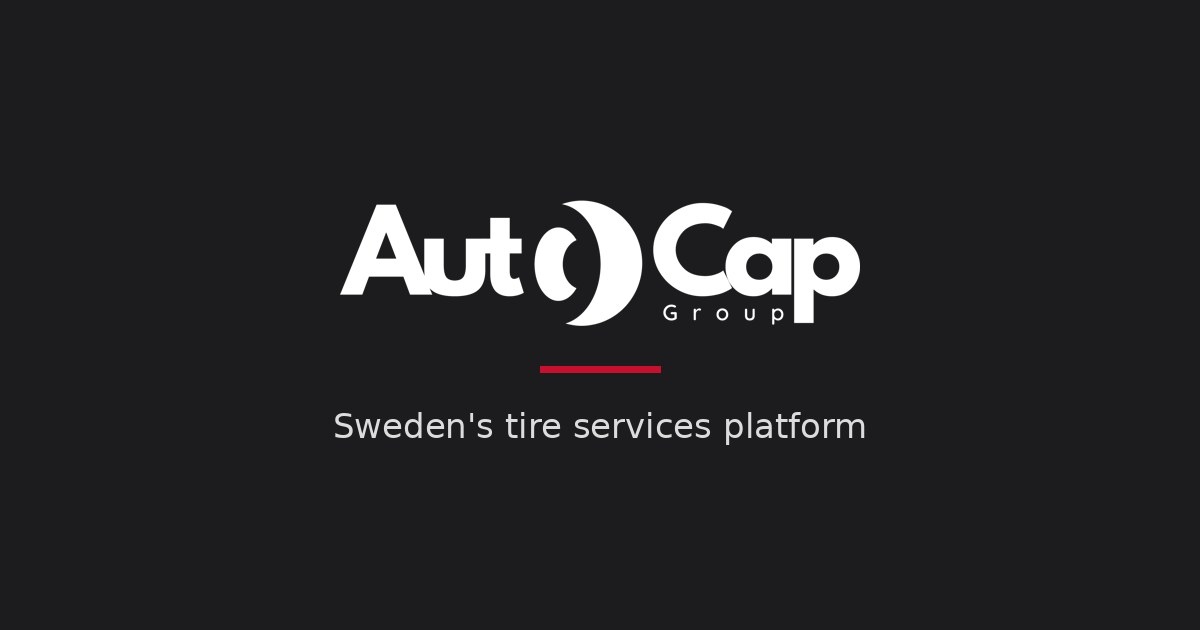
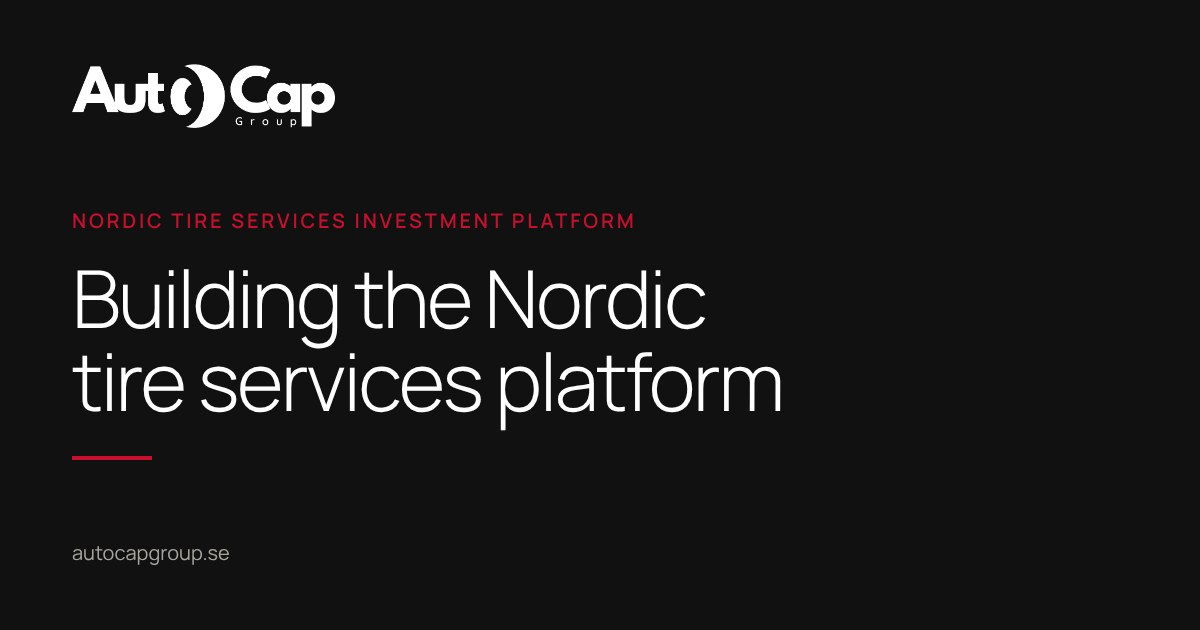
feat(seo): branded share images, workshop structured data, closed preview robots
Shared links showed a card saying "Sweden's tire services platform" in a
system font, two Swedish pages had English titles, and workshop pages gave
search engines nothing structured to read.

Claude-Session: https://claude.ai/code/session_01Xw5uD7G8tMdVQpiXwxNjq9

diff --git a/src/lib/seo/workshop-json-ld.test.ts b/src/lib/seo/workshop-json-ld.test.ts
@@ -1,0 +1,38 @@
+import type { Workshop } from '@/lib/cms/workshop/types';
+import { workshopJsonLd } from './workshop-json-ld';
+
+const workshop: Workshop = {
+  id: 1,
+  name: 'Däckgruppen Bromma',
+  slug: 'dackgruppen-bromma',
+  city: 'Bromma',
+  region: 'Stockholm',
+  latitude: 59.34,
+  longitude: 17.94,
+  status: 'acquired',
+  yearAcquired: 2026,
+  localWebsite: 'https://dackgruppen.se',
+  description: 'Tire service in Bromma.',
+};
+
+describe('workshopJsonLd', () => {
+  const url = 'https://autocapgroup.se/portfolio/dackgruppen-bromma';
+
+  it('describes the workshop as a tire shop owned by the group', () => {
+    const data = workshopJsonLd(workshop, url);
+    expect(data['@type']).toBe('TireShop');
+    expect(data.name).toBe('Däckgruppen Bromma');
+    expect(data.url).toBe('https://dackgruppen.se');
+    expect(data.parentOrganization).toEqual({ '@id': 'https://autocapgroup.se/#organization' });
+    expect(data.geo).toEqual({ '@type': 'GeoCoordinates', latitude: 59.34, longitude: 17.94 });
+  });
+
+  it('leaves out facts the CMS does not hold', () => {
+    const data = workshopJsonLd({ ...workshop, localWebsite: '', latitude: NaN }, url);
+    expect(data.url).toBe(url);
+    expect(data).not.toHaveProperty('geo');
+    expect(data).not.toHaveProperty('telephone');
+    expect(data).not.toHaveProperty('foundingDate');
+    expect((data.address as Record<string, unknown>).streetAddress).toBeUndefined();
+  });
+});

diff --git a/src/lib/seo/workshop-json-ld.ts b/src/lib/seo/workshop-json-ld.ts
@@ -1,0 +1,31 @@
+import type { Workshop } from '@/lib/cms/workshop/types';
+import { SITE_URL } from '@/lib/cms/seo';
+
+/**
+ * schema.org description of one workshop, built only from CMS fields. The CMS holds no street
+ * address, phone or opening hours, so those are left out rather than guessed.
+ */
+export function workshopJsonLd(workshop: Workshop, pageUrl: string): Record<string, unknown> {
+  const hasPosition = Number.isFinite(workshop.latitude) && Number.isFinite(workshop.longitude);
+  return {
+    '@context': 'https://schema.org',
+    '@type': 'TireShop',
+    '@id': `${pageUrl}#workshop`,
+    name: workshop.name,
+    description: workshop.description,
+    url: workshop.localWebsite || pageUrl,
+    mainEntityOfPage: pageUrl,
+    ...(workshop.imageUrl ? { image: workshop.imageUrl } : {}),
+    address: {
+      '@type': 'PostalAddress',
+      addressLocality: workshop.city,
+      addressRegion: workshop.region,
+      addressCountry: 'SE',
+    },
+    ...(hasPosition
+      ? { geo: { '@type': 'GeoCoordinates', latitude: workshop.latitude, longitude: workshop.longitude } }
+      : {}),
+    ...(workshop.yearFounded ? { foundingDate: String(workshop.yearFounded) } : {}),
+    parentOrganization: { '@id': `${SITE_URL}/#organization` },
+  };
+}

diff --git a/src/app/[locale]/portfolio/[slug]/page.tsx b/src/app/[locale]/portfolio/[slug]/page.tsx
@@ -7,7 +7,8 @@ import { setRequestLocale, getTranslations } from 'next-intl/server';
 import { getWorkshopsContent, getWorkshopBySlugContent } from '@/lib/cms/workshop';
 import { WorkshopHero } from '@/components/portfolio/WorkshopHero';
 import { ArticleLocalizedPathSetter } from '@/components/news/ArticleLocalizedPathSetter';
-import { buildMetadata, localizedSlugPath } from '@/lib/cms/seo';
+import { buildMetadata, localeUrl, localizedSlugPath } from '@/lib/cms/seo';
+import { workshopJsonLd } from '@/lib/seo/workshop-json-ld';
 
 const URL_PATTERN = /https?:\/\/[^\s]+/g;
 
@@ -97,6 +98,13 @@ export default async function WorkshopDetailPage({ params }: WorkshopDetailPageP
           basePath="/portfolio"
         />
       )}
+
+      <script
+        type="application/ld+json"
+        dangerouslySetInnerHTML={{
+          __html: JSON.stringify(workshopJsonLd(workshop, localeUrl(locale, `/portfolio/${slug}`))),
+        }}
+      />
 
       <WorkshopHero
         name={workshop.name}

diff --git a/src/app/robots.test.ts b/src/app/robots.test.ts
@@ -1,0 +1,26 @@
+import robots from './robots';
+
+describe('robots.txt', () => {
+  const original = process.env.VERCEL_ENV;
+  afterEach(() => {
+    if (original === undefined) delete process.env.VERCEL_ENV;
+    else process.env.VERCEL_ENV = original;
+  });
+
+  it('opens production to crawlers but keeps the API and the design system out', () => {
+    process.env.VERCEL_ENV = 'production';
+    const result = robots();
+    expect(result.rules).toMatchObject({ allow: '/' });
+    expect((result.rules as { disallow: string[] }).disallow).toEqual(
+      expect.arrayContaining(['/api/', '/design-system'])
+    );
+    expect(result.sitemap).toBe('https://autocapgroup.se/sitemap.xml');
+  });
+
+  it('closes preview addresses completely', () => {
+    process.env.VERCEL_ENV = 'preview';
+    const result = robots();
+    expect(result.rules).toEqual({ userAgent: '*', disallow: '/' });
+    expect(result.sitemap).toBeUndefined();
+  });
+});

diff --git a/src/app/robots.ts b/src/app/robots.ts
@@ -1,13 +1,22 @@
 import type { MetadataRoute } from 'next';
+import { SITE_URL } from '@/lib/cms/seo';
+
+/** Only the production deployment may be indexed; preview addresses are closed to crawlers. */
+export function isIndexable(): boolean {
+  return process.env.VERCEL_ENV === undefined || process.env.VERCEL_ENV === 'production';
+}
 
 export default function robots(): MetadataRoute.Robots {
+  if (!isIndexable()) {
+    return { rules: { userAgent: '*', disallow: '/' } };
+  }
   return {
     rules: {
       userAgent: '*',
       allow: '/',
       // /_next/ must stay crawlable: Google needs the CSS and JS to render pages.
-      disallow: ['/api/'],
+      disallow: ['/api/', '/design-system', '/sv/design-system'],
     },
-    sitemap: 'https://autocapgroup.se/sitemap.xml',
+    sitemap: `${SITE_URL}/sitemap.xml`,
   };
 }

diff --git a/src/app/[locale]/portfolio/page.tsx b/src/app/[locale]/portfolio/page.tsx
@@ -4,7 +4,7 @@ import { CompanyPanel, Container, Eyebrow, LogoWall, RedRule, type CompanyView }
 import { WorkshopMapWrapper } from '@/components/portfolio/WorkshopMapWrapper';
 import { getWorkshopsContent } from '@/lib/cms/workshop';
 import { getPortfolioPageContent } from '@/lib/cms/portfolio-page';
-import { buildMetadata } from '@/lib/cms/seo';
+import { buildMetadata, OG_IMAGES } from '@/lib/cms/seo';
 import { countByRegion, groupCompanies, type Company } from '@/lib/v2/companies';
 
 type Props = { params: Promise<{ locale: string }> };
@@ -24,7 +24,7 @@ export async function generateMetadata({ params }: Props): Promise<Metadata> {
         },
     cms?.seo,
     locale,
-    { path: '/portfolio', fallbackOgImage: cms?.heroImage }
+    { path: '/portfolio', fallbackOgImage: OG_IMAGES.companies }
   );
 }
 

diff --git a/src/app/[locale]/investors/page.tsx b/src/app/[locale]/investors/page.tsx
@@ -11,7 +11,7 @@ import { getKpiTickerContent } from '@/lib/cms/kpi-ticker';
 import { getWorkshopsContent } from '@/lib/cms/workshop';
 import { getTeamMembersContent } from '@/lib/cms/team-member';
 import { REVALIDATE_HIGH } from '@/lib/cms/revalidate';
-import { buildMetadata } from '@/lib/cms/seo';
+import { buildMetadata, OG_IMAGES } from '@/lib/cms/seo';
 import { COMPANY_INFO } from '@/lib/constants';
 import { countByRegion, groupCompanies } from '@/lib/v2/companies';
 
@@ -34,7 +34,7 @@ export async function generateMetadata({ params }: Props): Promise<Metadata> {
         },
     cms.seo,
     locale,
-    { path: '/investors', fallbackOgImage: cms.heroImage }
+    { path: '/investors', fallbackOgImage: OG_IMAGES.investors }
   );
 }
 

diff --git a/src/app/[locale]/entrepreneurs/page.tsx b/src/app/[locale]/entrepreneurs/page.tsx
@@ -7,7 +7,7 @@ import { ContactForm } from '@/components/entrepreneurs/ContactForm';
 import { getEntrepreneursPageContent } from '@/lib/cms/entrepreneurs-page';
 import { getTestimonialsContent } from '@/lib/cms/testimonial';
 import { REVALIDATE_HIGH } from '@/lib/cms/revalidate';
-import { buildMetadata } from '@/lib/cms/seo';
+import { buildMetadata, OG_IMAGES } from '@/lib/cms/seo';
 
 type Props = { params: Promise<{ locale: string }> };
 
@@ -22,7 +22,7 @@ export async function generateMetadata({ params }: Props): Promise<Metadata> {
     },
     cms.seo,
     locale,
-    { path: '/entrepreneurs', fallbackOgImage: cms.heroImage }
+    { path: '/entrepreneurs', fallbackOgImage: OG_IMAGES.entrepreneurs }
   );
 }
 

diff --git a/src/app/[locale]/entrepreneurs/process/page.tsx b/src/app/[locale]/entrepreneurs/process/page.tsx
@@ -12,12 +12,9 @@ type Props = { params: Promise<{ locale: string }> };
 export async function generateMetadata({ params }: Props): Promise<Metadata> {
   const { locale } = await params;
   const cms = await getAcquisitionProcessContent(undefined, locale).catch(() => null);
+  const t = await getTranslations({ locale, namespace: 'seoPages.entrepreneursProcess' });
   return buildMetadata(
-    {
-      title: 'How It Works · AutoCap Group',
-      description:
-        'Our clear, respectful acquisition process from first conversation to completion.',
-    },
+    { title: t('title'), description: t('description') },
     cms?.seo,
     locale,
     { path: '/entrepreneurs/process' }

diff --git a/src/app/[locale]/cookies/page.tsx b/src/app/[locale]/cookies/page.tsx
@@ -9,12 +9,9 @@ type Props = { params: Promise<{ locale: string }> };
 export async function generateMetadata({ params }: Props): Promise<Metadata> {
   const { locale } = await params;
   const cms = await getCookiePolicyContent(undefined, locale).catch(() => null);
+  const t = await getTranslations({ locale, namespace: 'seoPages.cookies' });
   return buildMetadata(
-    {
-      title: 'Cookie Policy · AutoCap Group',
-      description:
-        'AutoCap Group cookie policy — how we use cookies and similar technologies on our website.',
-    },
+    { title: t('title'), description: t('description') },
     cms?.seo,
     locale,
     { path: '/cookies' }

diff --git a/src/lib/cms/seo.ts b/src/lib/cms/seo.ts
@@ -11,6 +11,12 @@ export interface CmsSeo {
 const SITE_NAME = 'AutoCap Group';
 export const SITE_URL = 'https://autocapgroup.se';
 export const DEFAULT_OG_IMAGE = `${SITE_URL}/og/autocap-og.jpg`;
+/** Branded 1200×630 share images per main section (v2 design). */
+export const OG_IMAGES = {
+  investors: `${SITE_URL}/og/investors-og.jpg`,
+  entrepreneurs: `${SITE_URL}/og/entrepreneurs-og.jpg`,
+  companies: `${SITE_URL}/og/companies-og.jpg`,
+} as const;
 
 /** Path per language; leave a language out when the page has no translation. */
 export type LocalizedPaths = { en?: string; sv?: string };

diff --git a/src/app/[locale]/news/[slug]/page.tsx b/src/app/[locale]/news/[slug]/page.tsx
@@ -83,7 +83,7 @@ export default async function ArticleDetailPage({ params }: ArticleDetailPagePro
       name: 'AutoCap Group',
       logo: {
         '@type': 'ImageObject',
-        url: 'https://autocapgroup.se/logo.png',
+        url: 'https://autocapgroup.se/logos/autocap-dark.png',
       },
     },
   };
